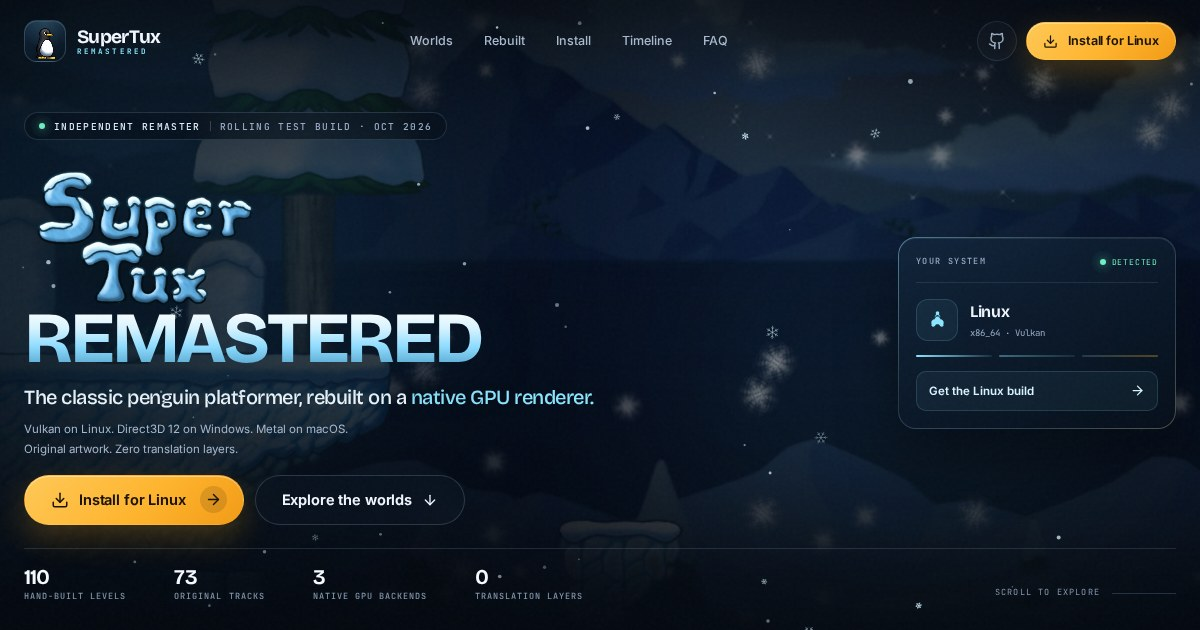
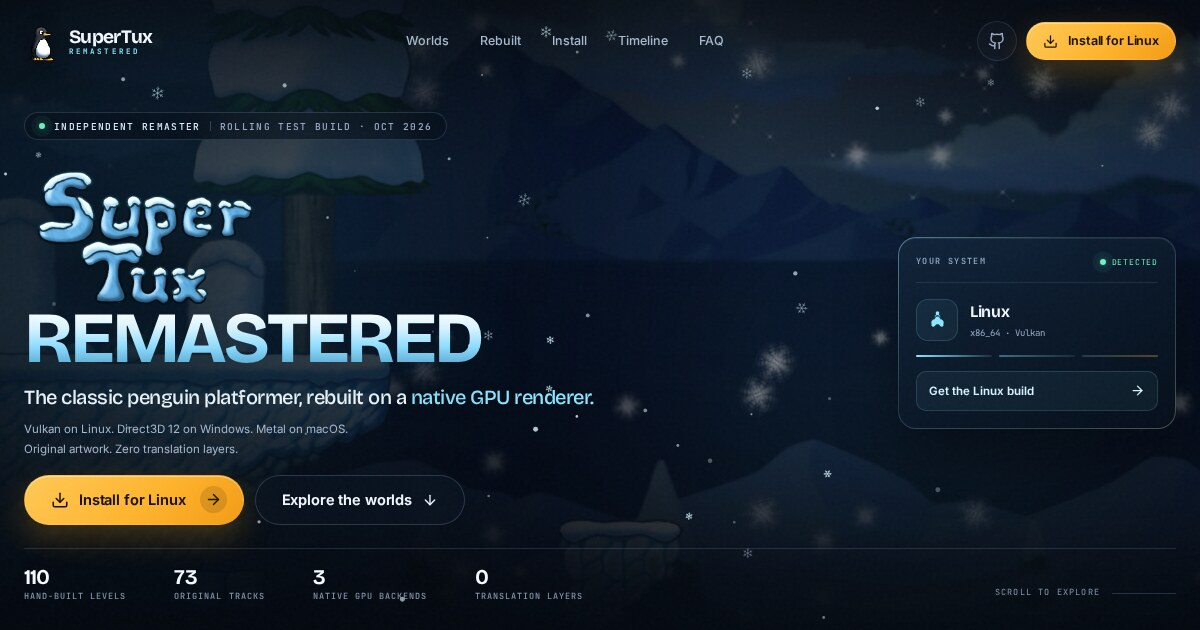
style: remove the frame behind the header Tux
Let the penguin stand on its own in the site header and footer, and refresh the social preview image.

diff --git a/website/src/styles.css b/website/src/styles.css
@@ -400,20 +400,15 @@ pre {
 .brand__mark {
   display: grid;
   place-items: center;
-  width: 42px;
+  width: 34px;
   height: 42px;
-  border: 1px solid rgba(159, 220, 255, 0.22);
-  border-radius: 13px;
-  background:
-    radial-gradient(100% 100% at 50% 0%, rgba(139, 230, 255, 0.18), transparent 70%),
-    linear-gradient(160deg, #102338, #08131f);
-  box-shadow: inset 0 1px 0 rgba(255, 255, 255, 0.08);
-  overflow: hidden;
+  overflow: visible;
+  filter: drop-shadow(0 4px 9px rgba(0, 0, 0, 0.42));
 }
 
 .brand__mark img {
-  width: 30px;
-  height: 38px;
+  width: 34px;
+  height: 42px;
   object-fit: contain;
   image-rendering: pixelated;
 }
@@ -3345,8 +3340,13 @@ pre {
   }
 
   .brand__mark {
-    width: 38px;
-    height: 38px;
+    width: 31px;
+    height: 39px;
+  }
+
+  .brand__mark img {
+    width: 31px;
+    height: 39px;
   }
 
   .hero {
